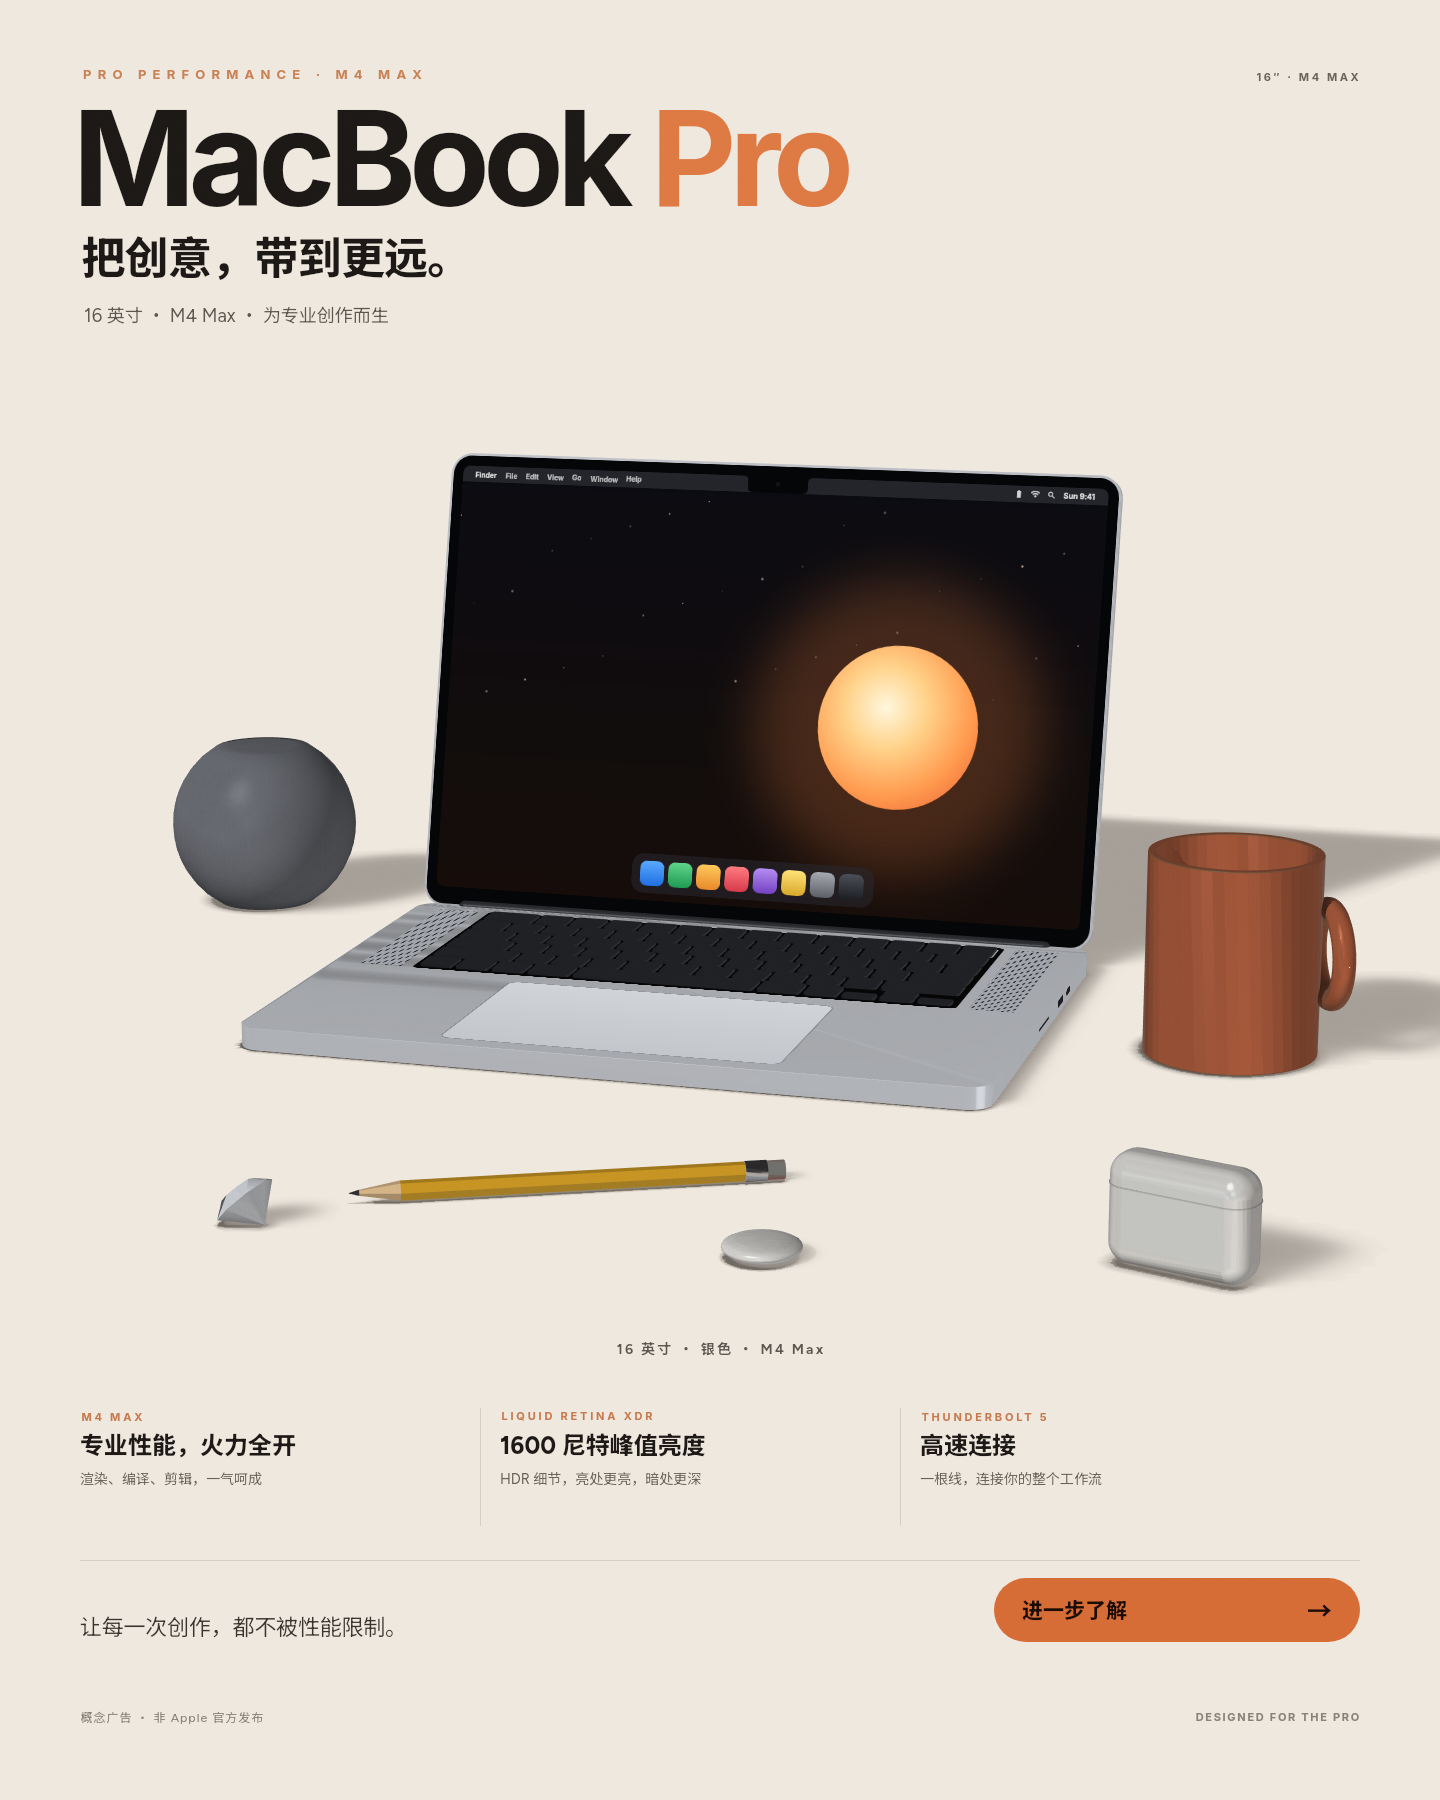
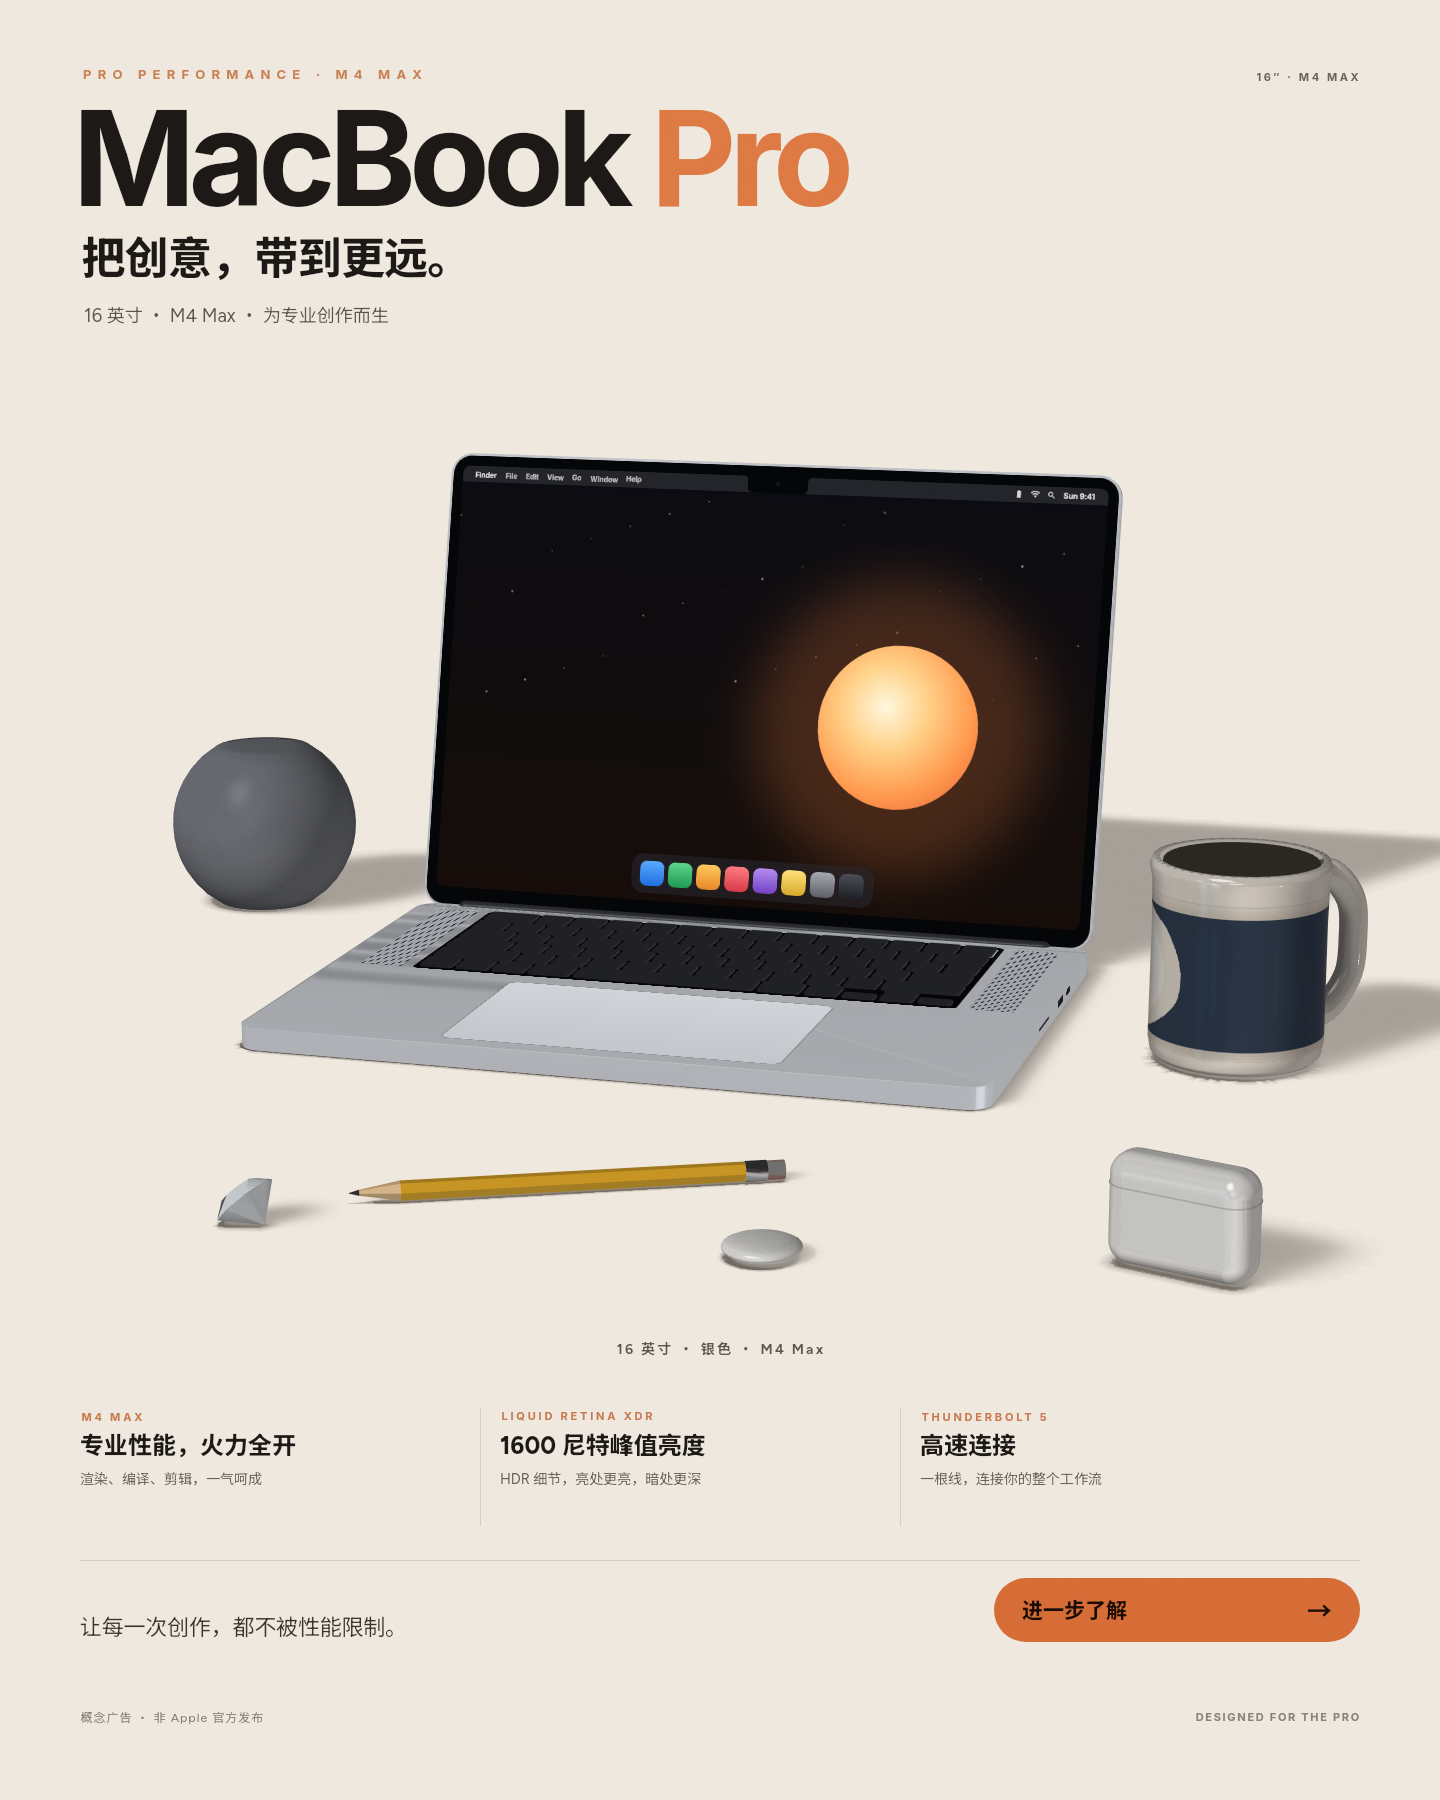
MacBook poster: ceramic mug with C-handle and side wrap
Replace the extruded terracotta cup + full torus with a lathe mug:
cream glaze, navy print band + badge map, dark liner, and a thick C-handle.

Changed region(s): [[0.7812, 0.4356, 0.9688, 0.6222]]

diff --git a/examples/macbook-pro.tsx b/examples/macbook-pro.tsx
@@ -216,7 +216,7 @@ function Lid() {
   )
 }
 
-// 桌上的配件，各用一种 finish：HomePod mini 布面（matte），马克杯（釉面：plastic + clearcoat），六角铅笔
+// 桌上的配件，各用一种 finish：HomePod mini 布面（matte），马克杯（奶油釉面 + 侧面贴图），六角铅笔
 // （漆面 plastic、木头 matte、铝箍 metal、橡皮 matte），AirTag（白 plastic + 不锈钢 metal），
 // AirPods Pro 盒（白色注塑：plastic 0.3 + 薄 clearcoat），钻石（glass）。
 // 和机身同一块地。y 是进深，往镜头为正；z 是离地高度。尺寸按机身同一比例，约 2.64 px/mm：
@@ -225,21 +225,98 @@ function Lid() {
 // 模型都用低面数 lathe 和六棱柱，不拖慢渲染。
 const FLOOR = { w: 1440, h: 1300 }
 
-// 空心杯：外圆减内圆，挤出成杯壁。
-function cupPath(cx: number, cy: number, r: number, wall: number) {
-  const ring = (rr: number) => `M ${cx - rr} ${cy} a ${rr} ${rr} 0 1 0 ${2 * rr} 0 a ${rr} ${rr} 0 1 0 ${-2 * rr} 0 Z`
-  return `${ring(r)} ${ring(r - wall)}`
-}
-
 // 机身占 floor 上 x∈[290,1230]、y∈[0,656]。
 const SPEAKER = { x: 30, y: -60, r: 129 }
-const MUG = { cx: 1462, cy: 330, r: 106, h: 250 }
+// turn：印花朝镜头偏中心，把手在右侧露出。
+const MUG = { cx: 1462, cy: 330, r: 106, turn: -42 }
 const PENCIL = { x: 860, y: 1060, r: 11, turn: -26 }
 const TAG = { x: 1110, y: 1205, r: 42, turn: 0 }
 const POD = { x: 1530, y: 1130, w: 160, d: 57, h: 119, turn: 18 }
 const GEM = { x: 560, y: 1250, r: 36, turn: 32 }
 
 const mat = (color: string, roughness: number, metalness = 0) => new THREE.MeshStandardMaterial({ color, roughness, metalness })
+
+/** 马克杯外壁卷标（lathe 只有外轮廓时，v 从底到口）。奶油釉 + 中腰印花带。 */
+function mugWrapMap() {
+  const w = 768
+  const h = 384
+  const rgba = new Uint8ClampedArray(w * h * 4)
+  const clamp = (n: number) => Math.max(0, Math.min(255, n | 0))
+  const hash = (x: number, y: number) => {
+    const n = Math.sin(x * 12.9898 + y * 78.233) * 43758.5453
+    return n - Math.floor(n)
+  }
+  for (let y = 0; y < h; y++) {
+    for (let x = 0; x < w; x++) {
+      const u = x / w
+      const v = y / (h - 1)
+      const speck = (hash(x, y) - 0.5) * 5
+      // 素釉底
+      let r = 242 + speck
+      let g = 235 + speck * 0.9
+      let b = 224 + speck * 0.75
+      // 中腰印花带（深蓝）
+      const bandLo = 0.38
+      const bandHi = 0.68
+      if (v > bandLo && v < bandHi) {
+        const edge = Math.min((v - bandLo) / 0.03, (bandHi - v) / 0.03, 1)
+        const t = Math.max(0, Math.min(1, edge))
+        // 徽标在 u≈0.5（-X）；杯子再 yaw，使这一面转向镜头
+        const dx = (u - 0.5) * 0.95
+        const dy = (v - 0.53) * 2.1
+        const rad2 = dx * dx + dy * dy
+        const inBadge = rad2 < 0.055
+        const inRing = rad2 < 0.078 && rad2 > 0.048
+        const rail = (Math.abs(v - 0.4) < 0.014 || Math.abs(v - 0.66) < 0.014) && Math.abs(u - 0.5) > 0.14
+        let br = 48
+        let bg = 62
+        let bb = 82
+        if (rail) {
+          br = 220
+          bg = 210
+          bb = 196
+        }
+        if (inRing) {
+          br = 240
+          bg = 234
+          bb = 222
+        }
+        if (inBadge) {
+          br = 250
+          bg = 246
+          bb = 238
+          const cup = Math.abs(dx) < 0.08 && dy > -0.055 && dy < 0.085
+          const lip = Math.abs(dx) < 0.095 && Math.abs(dy - 0.085) < 0.014
+          const handle = dx > 0.055 && dx < 0.12 && Math.abs(dy) < 0.055
+          if (cup || lip || handle) {
+            br = 36
+            bg = 46
+            bb = 60
+          }
+        }
+        r = r * (1 - t) + br * t
+        g = g * (1 - t) + bg * t
+        b = b * (1 - t) + bb * t
+      }
+      // 底脚略深一点
+      if (v < 0.08) {
+        const t = 1 - v / 0.08
+        r -= 10 * t
+        g -= 10 * t
+        b -= 12 * t
+      }
+      const i = (y * w + x) * 4
+      rgba[i] = clamp(r)
+      rgba[i + 1] = clamp(g)
+      rgba[i + 2] = clamp(b)
+      rgba[i + 3] = 255
+    }
+  }
+  const map = new THREE.DataTexture(rgba, w, h)
+  map.flipY = false
+  map.needsUpdate = true
+  return map
+}
 
 /**
  * 在 three 里按 y 向上建模。这里整体转到地面层的 z 向上，并让最低点落在 z=0，
@@ -262,6 +339,81 @@ function seated(parts: [THREE.BufferGeometry, THREE.Material][], tilt?: THREE.Eu
 }
 
 const lathe = (pts: [number, number][], seg = 28) => new THREE.LatheGeometry(pts.map(([r, y]) => new THREE.Vector2(r, y)), seg)
+
+// 马克杯：外壁车削（带贴图）+ 内壁深色 + 粗 C 形把手。半径约 1，高约 2.35。
+// 印花在 u=0.5（-X，朝舞台中心）；把手在 +X（朝外）。
+const mug = (() => {
+  const H = 2.35
+  const outer: [number, number][] = [
+    [0, 0],
+    [0.7, 0],
+    [0.9, 0.035],
+    [0.97, 0.1],
+    [1.0, 0.26],
+    [0.995, 0.85],
+    [0.99, 1.65],
+    [1.0, 2.12],
+    [1.03, 2.26],
+    [1.0, H],
+    [0.92, H],
+  ]
+  const body = lathe(outer, 48)
+  const glaze = new THREE.MeshPhysicalMaterial({
+    color: '#ffffff',
+    roughness: 0.28,
+    metalness: 0,
+    clearcoat: 0.78,
+    clearcoatRoughness: 0.16,
+    map: mugWrapMap(),
+  })
+  // 内壁：略矮一圈，深咖啡釉，开口读得出厚度
+  const inner = lathe(
+    [
+      [0, 0.16],
+      [0.55, 0.16],
+      [0.82, 0.2],
+      [0.9, 0.4],
+      [0.905, 1.65],
+      [0.9, 2.2],
+      [0.88, H - 0.02],
+      [0, H - 0.02],
+    ],
+    36,
+  )
+  const liner = new THREE.MeshStandardMaterial({ color: '#3a342e', roughness: 0.72, metalness: 0 })
+  // C 形把手：两端略伸进杯壁，中段更粗；截面压扁
+  const handlePath = new THREE.CatmullRomCurve3([
+    new THREE.Vector3(0.88, 1.88, 0),
+    new THREE.Vector3(1.18, 2.05, 0),
+    new THREE.Vector3(1.52, 1.72, 0),
+    new THREE.Vector3(1.58, 1.25, 0),
+    new THREE.Vector3(1.52, 0.78, 0),
+    new THREE.Vector3(1.18, 0.42, 0),
+    new THREE.Vector3(0.88, 0.5, 0),
+  ])
+  const handle = new THREE.TubeGeometry(handlePath, 48, 0.175, 16, false)
+  handle.scale(1, 1, 0.82)
+  handle.computeVertexNormals()
+  // 根部两颗圆角衔接，盖住管子切口
+  const stubMat = new THREE.MeshPhysicalMaterial({
+    color: '#f0e9e0',
+    roughness: 0.32,
+    metalness: 0,
+    clearcoat: 0.7,
+    clearcoatRoughness: 0.2,
+  })
+  const stubTop = new THREE.SphereGeometry(0.22, 16, 12)
+  stubTop.translate(0.93, 1.88, 0)
+  const stubBot = new THREE.SphereGeometry(0.22, 16, 12)
+  stubBot.translate(0.93, 0.5, 0)
+  return seated([
+    [body, glaze],
+    [inner, liner],
+    [handle, stubMat],
+    [stubTop, stubMat],
+    [stubBot, stubMat],
+  ])
+})()
 
 // AirTag：两片鼓面。下面是不锈钢，只有中心一小圈挨地，边缘翘起；上面是白色鼓面。半径 1。
 const airtag = seated([
@@ -320,18 +472,13 @@ const diamond = (() => {
 })()
 
 function Props() {
-  const mugHandle = { r: 55, tube: 14 }
   return (
     <layer x="0" y={STAGE.groundY} width={FLOOR.w} height={FLOOR.h} origin={`${FLOOR.w / 2} 0`} rotateX="90" preserve-3d>
       {/* 左后：HomePod mini */}
       <model object={homepod} unit={SPEAKER.r} x={SPEAKER.x} y={SPEAKER.y} />
-      {/* 右侧中段：陶瓷马克杯，杯把转向后方，侧面露出半圈 */}
-      <path d={cupPath(MUG.cx, MUG.cy, MUG.r, 8)} fill-rule="evenodd" depth={MUG.h} z={MUG.h / 2} fill="#c96a45" material="finish plastic, color #c96a45, roughness 0.45, clearcoat 1" stroke="none" />
-      {/* 同一个元素上 rotateX 会吞掉 z，所以抬高写在外层 */}
-      <layer x={MUG.cx} y={MUG.cy} width="0" height="0" rotate="-115" preserve-3d>
-        <layer x={MUG.r + 10} y="0" width="0" height="0" z={MUG.h / 2 + 6} preserve-3d>
-          <torus cx="0" cy="0" r={mugHandle.r} tube={mugHandle.tube} rotateX="90" fill="#c96a45" material="finish plastic, color #c96a45, roughness 0.45, clearcoat 1" />
-        </layer>
+      {/* 右侧中段：奶油釉马克杯，印花朝舞台中心，C 形把手朝外 */}
+      <layer x={MUG.cx} y={MUG.cy} width="0" height="0" rotate={MUG.turn} preserve-3d>
+        <model object={mug} unit={MUG.r} x="0" y="0" />
       </layer>
       {/* 前沿：铅笔斜放，笔尖指向左前的钻石 */}
       <layer x={PENCIL.x} y={PENCIL.y} width="0" height="0" rotate={PENCIL.turn} preserve-3d>
